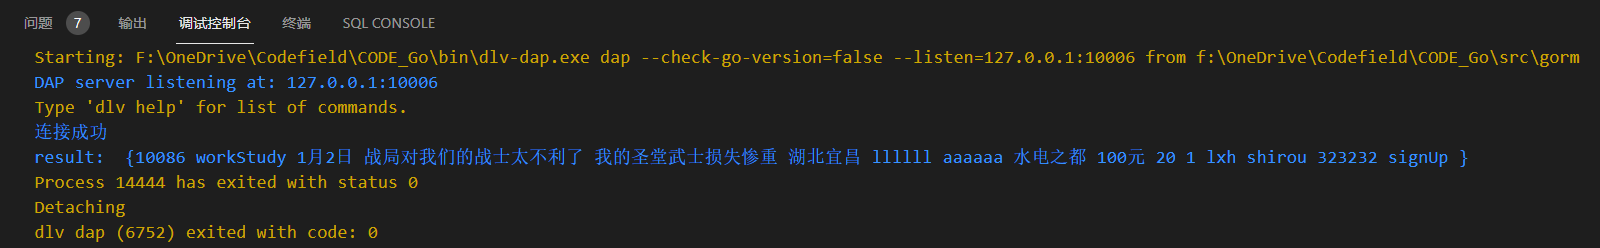
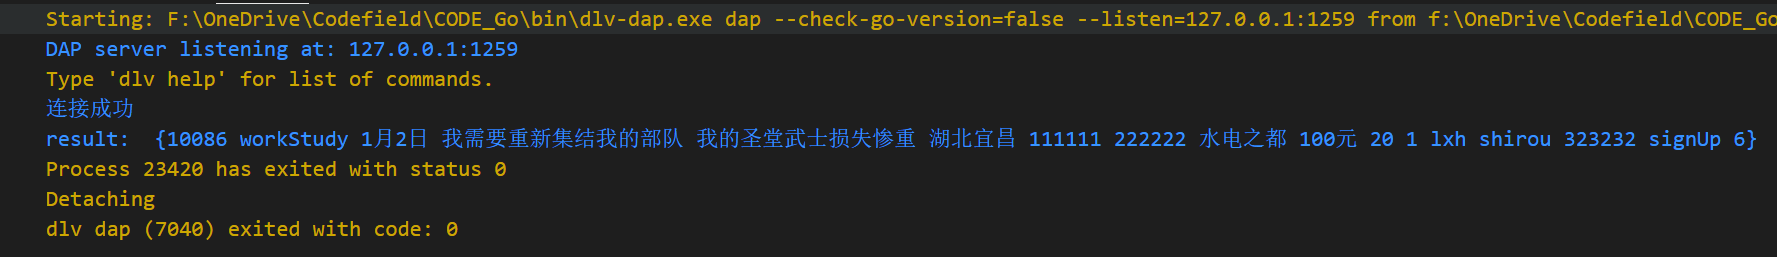
some change

Changed region(s): [[0.0, 0.4798, 1.0, 0.9597], [0.0, 0.1411, 1.0, 0.4798], [0.0, 0.0, 1.0, 0.1411]]

diff --git a/docs/index.html b/docs/index.html
@@ -51,79 +51,79 @@
     <script>
       window.$docsify = {
         repo: "https://github.com/xuanhao44/go_learn_tutorial",
-        <!-- 文档标题，会显示在侧边栏顶部 -->
+          < !--文档标题，会显示在侧边栏顶部-- >
         name: "Go 学习笔记",
-        <!-- 在侧边栏中出现的网站图标 -->
+          < !--在侧边栏中出现的网站图标 -->
         logo: "/_media/sidebar.svg",
-        <!-- 点击文档标题后跳转的链接地址 -->
+          < !--点击文档标题后跳转的链接地址 -->
         nameLink: "#/README",
-        <!-- 侧边栏 -->
+          < !--侧边栏 -->
         loadSidebar: true,
-        <!-- 显示目录 -->
+          < !--显示目录 -->
         subMaxLevel: 4,
-        <!-- 抓取文档中所有标题渲染成目录 -->
+          < !--抓取文档中所有标题渲染成目录 -->
         maxLevel: 6,
-        <!-- 配置导航 -->
+          < !--配置导航 -->
         loadNavbar: true,
-        <!-- 404 页面 -->
+          < !--404 页面-- >
         notFoundPage: true,
-        <!-- 锚点对齐标题栏 -->
+          < !--锚点对齐标题栏 -->
         topMargin: 90,
-        <!-- 切换页面后是否自动跳转到页面顶部 -->
+          < !--切换页面后是否自动跳转到页面顶部 -->
         auto2top: true,
-        <!-- 禁用 emoji 解析 -->
+          < !--禁用 emoji 解析-- >
         noEmoji: true,
-        <!-- 小屏设备下合并导航栏到侧边栏 -->
+          < !--小屏设备下合并导航栏到侧边栏 -->
         mergeNavbar: true,
-        <!-- 外部链接的打开方式 -->
+          < !--外部链接的打开方式 -->
         externalLinkTarget: "_self",
-        search: {
-          paths: "auto", // or 'auto'
+          search: {
+        paths: "auto", // or 'auto'
           placeholder: "输入关键词搜索",
-          noData: "找不到结果",
-        },
-        plugins: [
-          <!-- powered by -->
-          function (hook) {
-            var footer = [
-              "<footer>",
-              '<span>Powered by <a href="https://github.com/docsifyjs/docsify" target="_blank">docsify</a>.</span>',
-              "</footer>",
-            ].join("");
+            noData: "找不到结果",
+          },
+      plugins: [
+            < !--powered by-- >
+        function (hook) {
+          var footer = [
+            "<footer>",
+            '<span>Powered by <a href="https://github.com/docsifyjs/docsify" target="_blank">docsify</a>.</span>',
+            "</footer>",
+          ].join("");
 
-            hook.afterEach(function (html) {
-              return html + footer;
-            });
-          },
-        ],
+          hook.afterEach(function (html) {
+            return html + footer;
+          });
+        },
+      ],
         tabs: {
-          persist: true, // default
+        persist: true, // default
           sync: true, // default
-          theme: "classic", // default
-          tabComments: true, // default
-          tabHeadings: true, // default
-        },
-        pagination: {
-          previousText: "上一章节",
-          nextText: "下一章节",
-          crossChapter: true,
-          crossChapterText: true,
-        },
-        count: {
-          countable: true,
-          position: "top",
-          margin: "10px",
-          float: "right",
-          fontsize: "0.9em",
-          color: "rgb(90,90,90)",
-          language: "chinese",
-          localization: {
-            words: "",
-            minute: "",
+            theme: "classic", // default
+              tabComments: true, // default
+                tabHeadings: true, // default
           },
-          isExpected: true,
-        },
-      };
+      pagination: {
+        previousText: "上一章节",
+          nextText: "下一章节",
+            crossChapter: true,
+              crossChapterText: true,
+          },
+      count: {
+        countable: true,
+          position: "top",
+            margin: "10px",
+              float: "right",
+                fontsize: "0.9em",
+                  color: "rgb(90,90,90)",
+                    language: "chinese",
+                      localization: {
+          words: "",
+            minute: "",
+            },
+        isExpected: true,
+          },
+        };
     </script>
     <!-- docsify (latest v4.x.x)-->
     <script src="https://cdn.jsdelivr.net/npm/docsify@4"></script>
@@ -134,7 +134,6 @@
     <!-- 复制到剪贴板 -->
     <script src="//cdn.jsdelivr.net/npm/docsify-copy-code/dist/docsify-copy-code.min.js"></script>
     <!-- 代码高亮 -->
-    <script src="https://cdnjs.cloudflare.com/ajax/libs/prism/1.22.0/prism.min.js"></script>
     <script src="//cdn.jsdelivr.net/npm/prismjs@1/components/prism-go.js"></script>
     <script src="//cdn.jsdelivr.net/npm/prismjs@1/components/prism-sql.js"></script>
     <script src="//cdn.jsdelivr.net/npm/prismjs@1/components/prism-shell-session.js"></script>

diff --git a/docs/Mysql&gorm/day1.md b/docs/Mysql&gorm/day1.md
@@ -1,5 +1,7 @@
 # day1 - gorm 增删改查
 
+day1 是 gorm 入门中的入门捏！我还没有学过数据库，Mysql，gorm 都要学，这样才称得上健全（雾）。
+
 ## 0 参考
 
 - [Go组件学习——gorm四步带你搞定DB增删改查 - 简书 (jianshu.com)](https://www.jianshu.com/p/1513f55f8192)
@@ -11,7 +13,7 @@
 
 Mysql 是一种数据库；
 
-gorm 是 go 操作数据库的一种框架，Mysql 是其所能操纵的数据库中的一种。
+gorm 是 Go 操作数据库的一种框架，Mysql 是其所能操纵的数据库中的一种。
 
 ## 2 Mysql 安装和初步设置
 
@@ -51,7 +53,7 @@ mysql> CREATE DATABASE hitszedu;
 
 例：
 
-```mysql
+```sql
 CREATE TABLE `need` (
   `need_id` varchar(128) NOT NULL COMMENT '需求号',
   `need_type` varchar(64) NOT NULL COMMENT '类型:勤工俭学(workStudy)、公益活动(publicBenefit)、特色课程(course)',
@@ -59,20 +61,19 @@ CREATE TABLE `need` (
   `title` varchar(128) NOT NULL COMMENT '需求标题',
   `description` varchar(1024) NOT NULL COMMENT '需求描述',
   `address_name` varchar(1024) NOT NULL COMMENT '地点名（API获取) ',
-  `longitude` varchar(128) NOT NULL COMMENT '经度',
-  `latitude` varchar(128) NOT NULL COMMENT '纬度',
+  `longitude` BIGINT(6) NOT NULL COMMENT '经度',
+  `latitude` BIGINT(6) NOT NULL COMMENT '纬度',
   `address_description` varchar(1024) NOT NULL COMMENT '地点描述',
   `reward` varchar(128) NOT NULL COMMENT '报酬',
-  `number_of_sign_up` varchar(128) NOT NULL COMMENT '可报名人数',
+  `number_of_sign_up` BIGINT(6) NOT NULL COMMENT '可报名人数',
   `publish_time` BIGINT(6) NOT NULL COMMENT '发布时间（时间戳）',
   `publisher_name` varchar(64) NOT NULL COMMENT '发布者名字（如：食堂，学校，xx社团）',
-  `publisher_id` varchar(128) NOT NULL COMMENT '发布人（类型为userID，因为需要根据权限进行判断）',
-  `reviewer_id` varchar(128) NOT NULL COMMENT '审核人（类型为adminID，因为需要权限固定，由后端填写）',
-  `state` varchar(64) NOT NULL COMMENT '状态：报名（signUp)(默认)、终止(stop)、待审核（wait)(之后的需求，现在用不上）',
-  `signed_up` varchar(64) NOT NULL COMMENT '已报名人数，便于报名逻辑处理',
-  PRIMARY KEY (`need_id`) -- 设置主键
+  `publisher_id` varchar(128) NOT NULL COMMENT '发布人（类型为userID）',
+  `reviewer_id` varchar(128) NOT NULL COMMENT '审核人（类型为adminID）',
+  `state` varchar(64) NOT NULL COMMENT '状态：报名（signUp)(默认)、终止(stop)、待审核（wait)',
+  `signed_up` BIGINT(6) NOT NULL COMMENT '已报名人数，便于报名逻辑处理',
+  PRIMARY KEY (`need_id`)
 ) ENGINE = InnoDB DEFAULT CHARSET = utf8mb4 COMMENT = '需求';
--- 设置innoDB引擎，设置默认UTF8编码
 ```
 
 3. 鼠标左键选中，点击闪电符号运行
@@ -87,10 +88,10 @@ CREATE TABLE `need` (
 
 先尝试添加一组数据，同样是用 SQL 脚本：
 
-```mysql
-INSERT INTO `hitszedu`.`need` 
+```sql
+INSERT INTO `hitszedu`.`need`
 (`need_id`, `need_type`, `time`, `title`, `description`, `address_name`, `longitude`, `latitude`, `address_description`, `reward`, `number_of_sign_up`, `publish_time`, `publisher_name`, `publisher_id`, `reviewer_id`, `state`, `signed_up`)
-VALUES ('123', '123', '333', '333', '3333', '3333', '3333', '3333', '333333', '3333', '3333', '3333', '3333', '3333', '3333', '3333', '3333');
+VALUES ('123', '123', '333', '333', '3333', '3333', 3333, 3333, '333333', '3333', '3333', 3333, '3333', '3333', '3333', '3333', 3333);
 ```
 
 可以通过右键 need 表选择 Select Rows - Limit 1000：
@@ -120,22 +121,22 @@ type Need struct {
 	Title              string `gorm:"type:varchar(128);column:title"`
 	Description        string `gorm:"type:varchar(1024);column:description"`
 	AddressName        string `gorm:"type:varchar(1024);column:address_name"`
-	Longitude          string `gorm:"type:varchar(128);column:longitude"`
-	Latitude           string `gorm:"type:varchar(128);column:latitude"`
+	Longitude          int    `gorm:"type:BIGINT(6);column:longitude"`
+	Latitude           int    `gorm:"type:BIGINT(6);column:latitude"`
 	AddressDescription string `gorm:"type:varchar(1024);column:address_description"`
 	Reward             string `gorm:"type:varchar(128);column:reward"`
-	NumberOfSignUp     string `gorm:"type:varchar(128);column:number_of_sign_up"`
-	PublishTime        int64  `gorm:"type:BIGINT(6);column:publish_time"`
+	NumberOfSignUp     int    `gorm:"type:BIGINT(6);column:number_of_sign_up"`
+	PublishTime        int    `gorm:"type:BIGINT(6);column:publish_time"`
 	PublisherName      string `gorm:"type:varchar(64);column:publisher_name"`
 	PublisherID        string `gorm:"type:varchar(128);column:publisher_id"`
 	ReviewerID         string `gorm:"type:varchar(128);column:reviewer_id"`
 	State              string `gorm:"type:varchar(64);column:state"`
-	SignedUp           string `gorm:"type:varchar(64);column:signed_up"`
+	SignedUp           int    `gorm:"type:BIGINT(6);column:signed_up"`
 }
 
 func main() {
 
-	db, err := gorm.Open("mysql", "root:xxxxxxxxx@tcp(127.0.0.1:3306)/hitszedu?charset=utf8&parseTime=True&loc=Local")
+	db, err := gorm.Open("mysql", "root:xxxxxxxx@tcp(127.0.0.1:3306)/hitszedu?charset=utf8&parseTime=True&loc=Local")
 	if err != nil {
 		panic("连接数据库失败")
 	}
@@ -149,16 +150,17 @@ func main() {
 		Title:              "我需要重新集结我的部队",
 		Description:        "我的圣堂武士损失惨重",
 		AddressName:        "湖北宜昌",
-		Longitude:          "llllll",
-		Latitude:           "aaaaaa",
+		Longitude:          111111,
+		Latitude:           222222,
 		AddressDescription: "水电之都",
 		Reward:             "100元",
-		NumberOfSignUp:     "20",
+		NumberOfSignUp:     20,
 		PublishTime:        1,
 		PublisherName:      "lxh",
 		PublisherID:        "shirou",
 		ReviewerID:         "323232",
 		State:              "signUp",
+		SignedUp:           6,
 	}
 	err0 := db.Create(&need).Error
 	if err0 != nil {
@@ -188,15 +190,15 @@ go mod 肯定要用；然后命令行执行 go build 以及运行，或者 VS Co
 
 ## 4 增删改查
 
-增已经有了，就来测试一下其他的吧！
+增已经有了，就来测试一下其他的吧！(下面的代码并不完整)
 
-删：
+### 删
 
 ```go
 err0 := db.Delete(&need).Error
 ```
 
-改：
+### 改
 
 ```go
 err0 := db.Model(&need).Update("title", "战局对我们的战士太不利了").Error
@@ -204,7 +206,7 @@ err0 := db.Model(&need).Update("title", "战局对我们的战士太不利了").
 
 删除和修改的效果的查看方法和增加是一样的。
 
-查：
+### 查(First)
 
 ```go
 var needResult Need
@@ -215,6 +217,50 @@ fmt.Println("result: ", needResult)
 查询结果：
 
 ![gorm查询输出][gorm查询输出]
+
+### 查(Find)
+
+Find 和 First 不同，会查找符合条件的所有数据，所以需要创建一个切片来存储查询的结果。
+
+```go
+needResults := make([]Need, 5)
+```
+
+ eg1：查找 need_type = workStudy 的数据
+
+```go
+needResults := make([]Need, 5)
+err0 := db.Where("need_type = ?", "workStudy").Find(&needResults).Error
+fmt.Println("result: ", needResults)
+if err0 != nil {
+	panic(err0)
+}
+```
+
+查询结果：
+
+```shell
+连接成功
+result:  [{10086 workStudy 1月2日 我需要重新集结我的部队 我的圣堂武士损失惨重 湖北宜昌 111111 222222 水电之都 100元 20 1 lxh shirou 323232 signUp 6}]
+```
+
+eg2：查找所有数据
+
+```go
+needResults := make([]Need, 5)
+err0 := db.Find(&needResults).Error
+fmt.Println("result: ", needResults)
+if err0 != nil {
+	panic(err0)
+}
+```
+
+查询结果：
+
+```shell
+连接成功
+result:  [{10086 workStudy 1月2日 我需要重新集结我的部队 我的圣堂武士损失惨重 湖北宜昌 111111 222222 水电之都 100元 20 1 lxh shirou 323232 signUp 6} {123 123 333 333 3333 3333 3333 3333 333333 3333 3333 3333 3333 3333 3333 3333 3333}]
+```
 
 ## 5 注意事项
 
@@ -230,7 +276,7 @@ NeedType           string `gorm:"type:varchar(64);column:need_type"`
 
 SQL：
 
-```mysql
+```sql
 `need_type` varchar(64) NOT NULL COMMENT '类型:勤工俭学(workStudy)、公益活动(publicBenefit)、特色课程(course)',
 ```
 
@@ -253,6 +299,7 @@ err0 := db.Create(&need).Error
 
 <!-- 图片 -->
 
+[Set_as_default_schema]:../_images/Set_as_default_schema.png
 [sql脚本建表]:../_images/sql脚本建表.png
 
 [闪电符号]:../_images/闪电符号.png
@@ -271,5 +318,3 @@ err0 := db.Create(&need).Error
 
 [gorm查询输出]:../_images/gorm查询输出.png
 [主键重复panic]:../_images/主键重复panic.png
-
-[Set_as_default_schema]:../_images/Set_as_default_schema.png

diff --git a/docs/_sidebar.md b/docs/_sidebar.md
@@ -13,6 +13,6 @@
    - [Go Modules](Go-details/Go-Modules.md)
 - Go 网络编程
 - Mysql 和 gorm
-   - [day1](Mysql&gorm/day1.md)
+   - [day1 - gorm 增删查改](Mysql&gorm/day1.md)
 - 其他知识
    - [OS 基础](other/OS.md)
